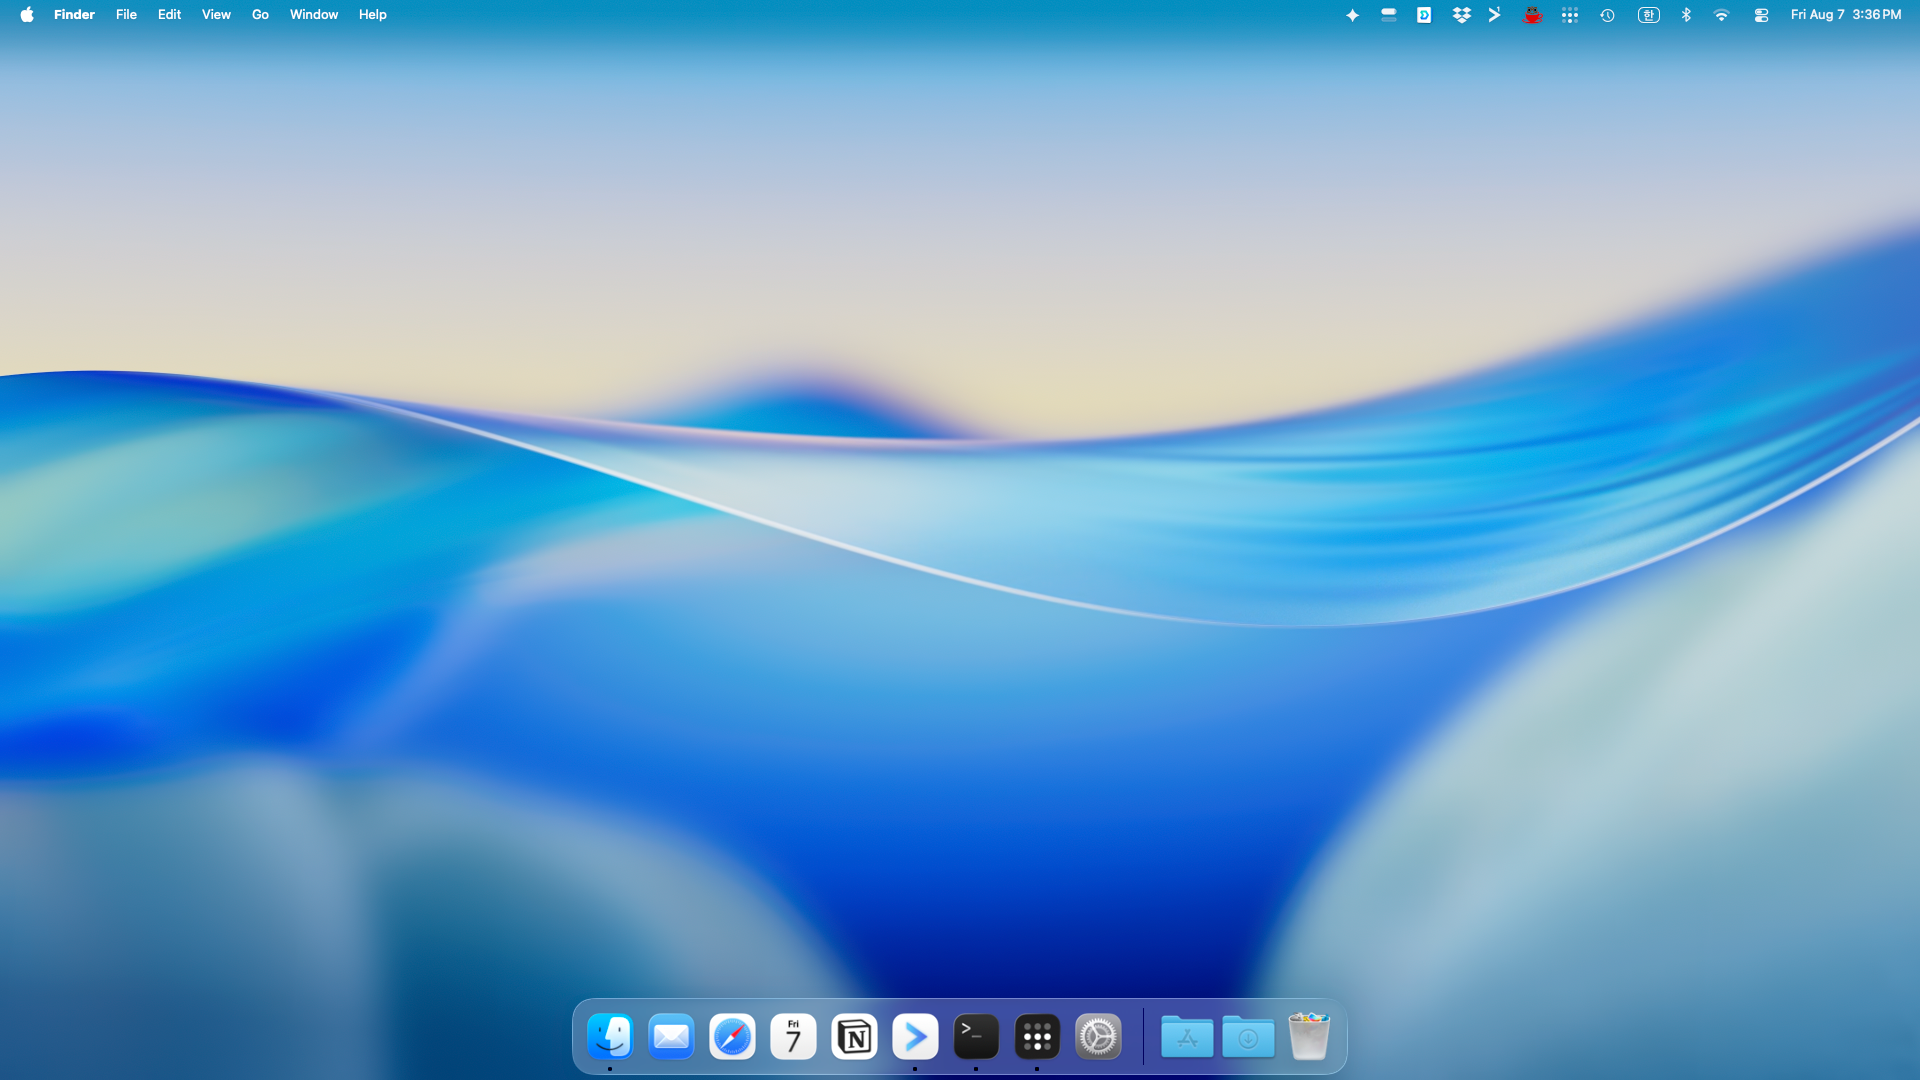
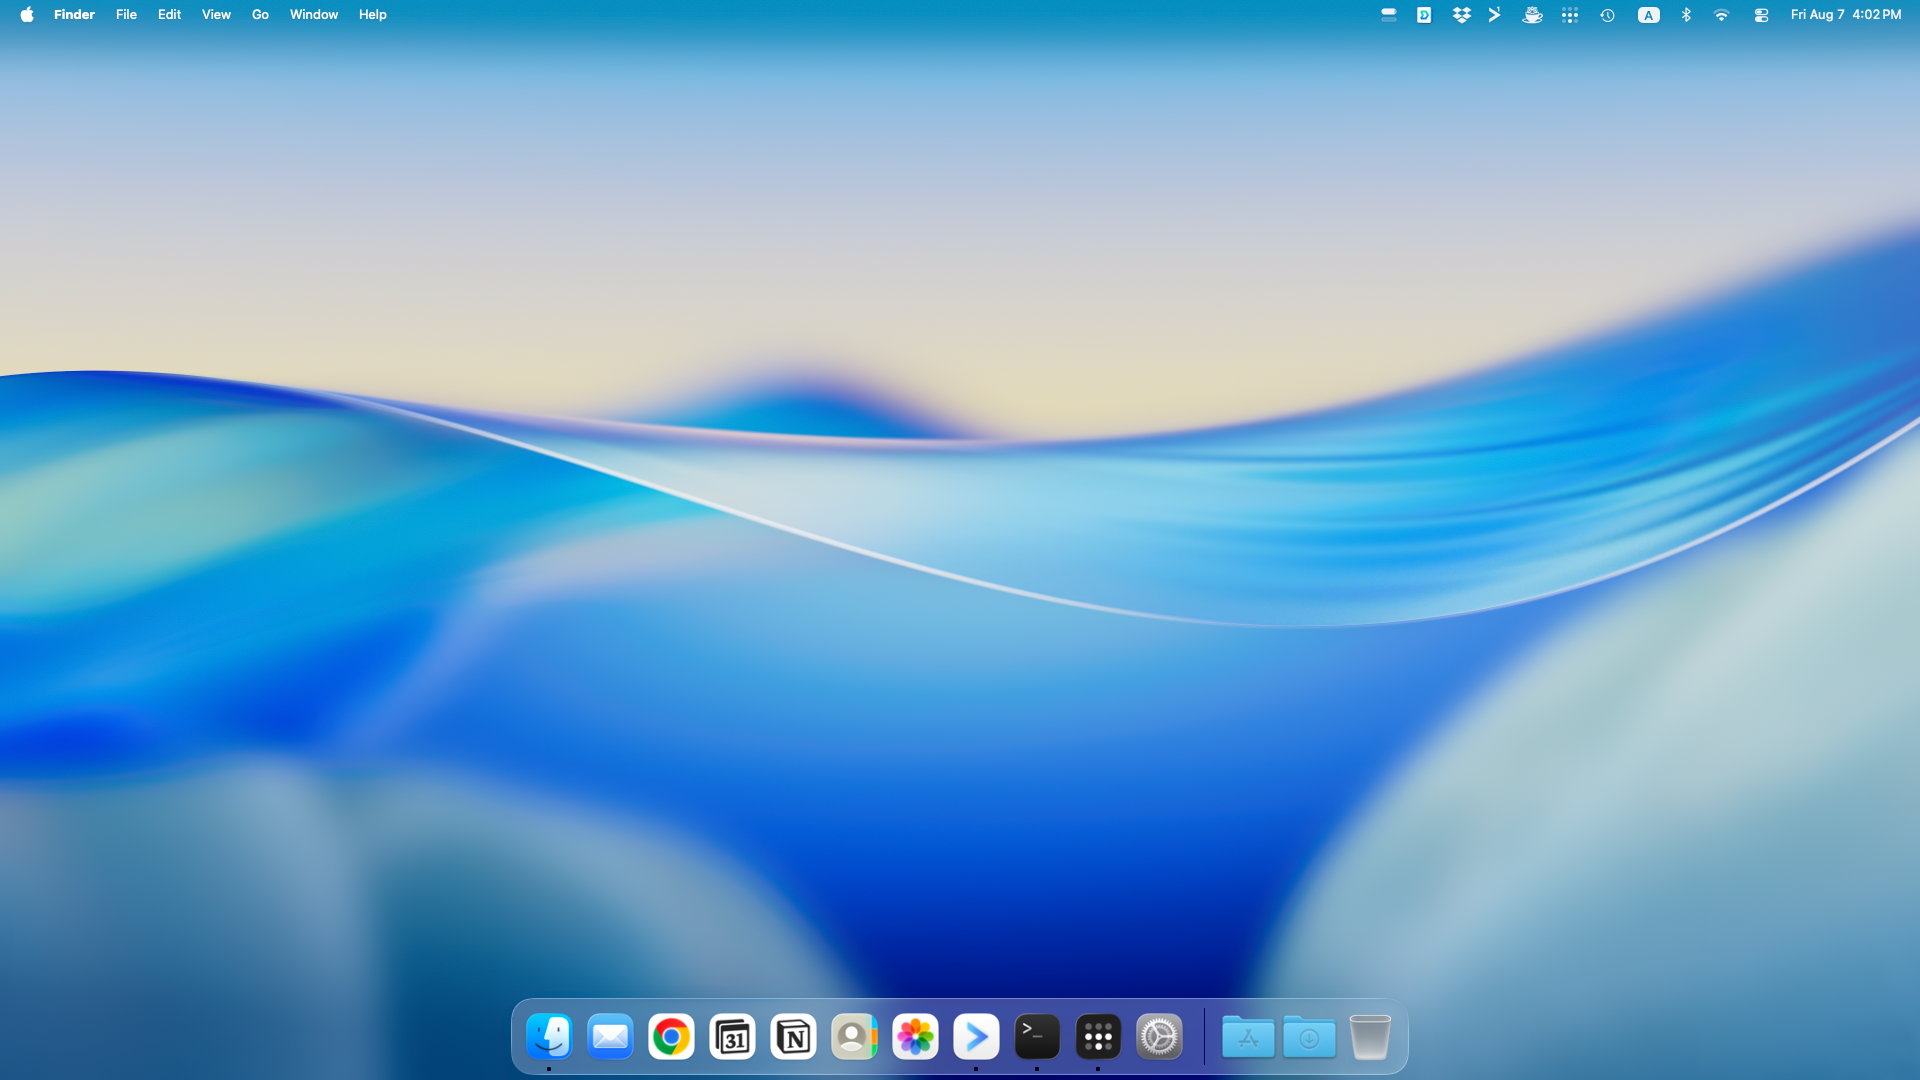
feat: swap in cleaner macos2 desktop capture, remap dock hotspots
New dock: Finder / Mail→Contact / Chrome→UBE / Calendar→Education /
Notion→CV / Contacts→Contact / Photos→Media / arrow→Research /
Terminal→whoami / Launchpad→Clinical AI / Settings→Dashboard.
Chrome icon now matches the Chrome window frame. Hotspot centers
verified against a 1:1 dock-strip crop.

Claude-Session: https://claude.ai/code/session_01XqtBUwWBvgWQuc5foAJZcB

Changed region(s): [[0.25, 0.9167, 0.75, 1.0], [0.8438, 0.0, 0.875, 0.0306], [0.7812, 0.0, 0.8125, 0.0306]]

diff --git a/src/components/desk-scene/os/MonitorOS.tsx b/src/components/desk-scene/os/MonitorOS.tsx
@@ -29,20 +29,22 @@ const APPS: AppDef[] = [
   { id: 'media', title: 'Media', kind: 'browser', src: '/media' },
 ];
 
-// dock hotspots over the real dock in desktop.png (capture px, center x / width 54, y 1009..1063)
+// dock hotspots over the real dock in desktop.png / macos2 capture (capture px, center x / width 54)
 const DOCK: { id: string; label: string; cx: number; app?: string }[] = [
-  { id: 'finder', label: 'Finder', cx: 610 },
-  { id: 'mail', label: 'Mail — Contact', cx: 671, app: 'contact' },
-  { id: 'safari', label: 'takmd.com — UBE', cx: 733, app: 'ube' },
-  { id: 'calendar', label: 'Calendar — Education', cx: 793, app: 'education' },
-  { id: 'notion', label: 'Notion — Living CV', cx: 855, app: 'cv' },
-  { id: 'mail2', label: 'Research', cx: 915, app: 'research' },
-  { id: 'terminal', label: 'Terminal', cx: 976, app: 'terminal' },
-  { id: 'launchpad', label: 'Clinical AI', cx: 1037, app: 'ai' },
-  { id: 'settings', label: 'Surgery Dashboard', cx: 1098, app: 'dashboard' },
-  { id: 'folder-a', label: 'Media', cx: 1187, app: 'media' },
-  { id: 'folder-b', label: 'Downloads', cx: 1248 },
-  { id: 'trash', label: 'Trash', cx: 1310 },
+  { id: 'finder', label: 'Finder', cx: 555 },
+  { id: 'mail', label: 'Mail — Contact', cx: 610, app: 'contact' },
+  { id: 'chrome', label: 'Chrome — UBE Surgery', cx: 671, app: 'ube' },
+  { id: 'calendar', label: 'Calendar — Education', cx: 733, app: 'education' },
+  { id: 'notion', label: 'Notion — Living CV', cx: 794, app: 'cv' },
+  { id: 'contacts', label: 'Contacts — Contact', cx: 855, app: 'contact' },
+  { id: 'photos', label: 'Photos — Media', cx: 919, app: 'media' },
+  { id: 'arrow', label: 'Research', cx: 977, app: 'research' },
+  { id: 'terminal', label: 'Terminal', cx: 1038, app: 'terminal' },
+  { id: 'launchpad', label: 'Clinical AI', cx: 1099, app: 'ai' },
+  { id: 'settings', label: 'Surgery Dashboard', cx: 1160, app: 'dashboard' },
+  { id: 'folder-a', label: 'Applications', cx: 1245 },
+  { id: 'folder-b', label: 'Downloads', cx: 1305 },
+  { id: 'trash', label: 'Trash', cx: 1368 },
 ];
 
 type Win = { appId: string; x: number; y: number; w: number; h: number; z: number; maxed: boolean };
